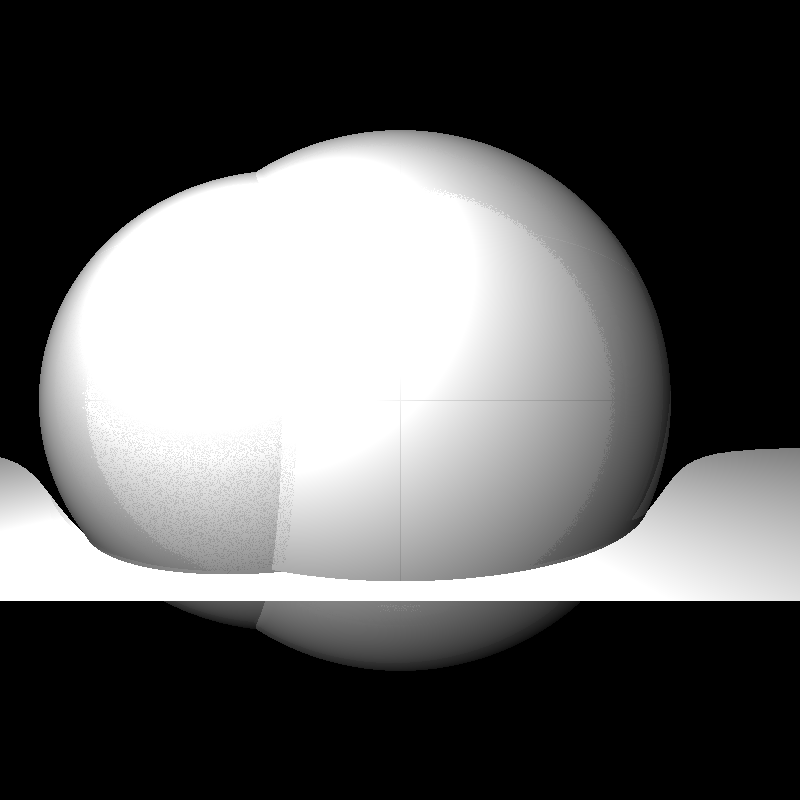
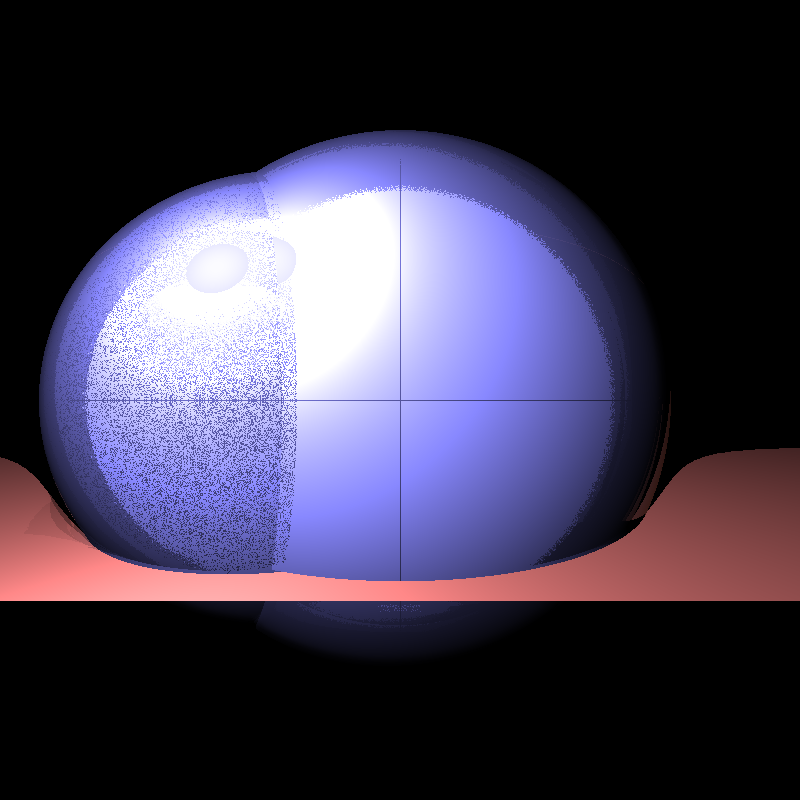
add color

diff --git a/march-catadioptric/src/ray.rs b/march-catadioptric/src/ray.rs
@@ -19,16 +19,16 @@ pub struct Ray {
 }
 
 impl Ray {
-    pub fn color(&self, objs: &Vec<Box<Object> >, light: &Light, counter: i32) -> Option<f32> {
+    pub fn color(&self, objs: &Vec<Box<Object> >, light: &Light, counter: i32) -> Option<Vector3<f32> > {
         if let Some(collision) = self.collision(objs) {
             let (pos, obj) = collision;
             let n = (*obj).normal(&pos);
             let l = pos - light.origin;
             let cos = -dot(&n, &l) / n.norm() / l.norm();
-            let ld = cos * 255.0;
-            let ls = cos*cos*cos*cos*cos*cos*cos * 255.0;
-            let la = 64.0;
-            let mut nyan = 0.0;
+            let ld = cos;
+            let ls = cos*cos*cos*cos*cos*cos*cos;
+            let la = 0.1;
+            let mut result = obj.color() * (ld+ls+la);
             if counter > 0 {
                 let g = (obj.refractive_index()*obj.refractive_index() - cos*cos - 1.0).sqrt();
                 let t = Ray {
@@ -41,13 +41,13 @@ impl Ray {
                 };
                 let (t, r) = (t.color(objs, light, counter-1), (r.color(objs, light, counter-1)));
                 if let Some(color) = t {
-                    nyan += color * 0.1;
+                    result += color * 0.5;
                 };
                 if let Some(color) = r {
-                    nyan += color * 0.1;
+                    result += color * 0.5;
                 };
             }
-            Some(ld + ls + la + nyan)
+            Some(result)
         } else {
             None
         }

diff --git a/march-catadioptric/src/main.rs b/march-catadioptric/src/main.rs
@@ -55,9 +55,9 @@ fn main() {
         if let Some(color) = ray.color(&objs, &light, 3) {
             *pixel = image::Rgb {
                 data: [
-                    255.0.min(0.0.max(color)) as u8,
-                    255.0.min(0.0.max(color)) as u8,
-                    255.0.min(0.0.max(color)) as u8]
+                    255.0.min(0.0.max(color.x)) as u8,
+                    255.0.min(0.0.max(color.y)) as u8,
+                    255.0.min(0.0.max(color.z)) as u8]
             };
         }
     }

diff --git a/march-catadioptric/src/objects/mod.rs b/march-catadioptric/src/objects/mod.rs
@@ -14,5 +14,6 @@ pub trait Object {
     fn distance(&self, p: &Vector3<f32>) -> f32;
     fn normal(&self, p: &Vector3<f32>) -> Vector3<f32>;
     fn refractive_index(&self) -> f32;
+    fn color(&self) -> Vector3<f32>;
 }
 

diff --git a/march-catadioptric/src/objects/sphere.rs b/march-catadioptric/src/objects/sphere.rs
@@ -35,5 +35,9 @@ impl Object for Sphere {
     fn refractive_index(&self) -> f32 {
         1.4
     }
+
+    fn color(&self) -> Vector3<f32> {
+        Vector3::new(64.0, 64.0, 120.0)
+    }
 }
 

diff --git a/march-catadioptric/src/objects/board.rs b/march-catadioptric/src/objects/board.rs
@@ -34,5 +34,9 @@ impl Object for Board {
     fn refractive_index(&self) -> f32 {
         1.4
     }
+
+    fn color(&self) -> Vector3<f32> {
+        Vector3::new(120.0, 64.0, 64.0)
+    }
 }
 
